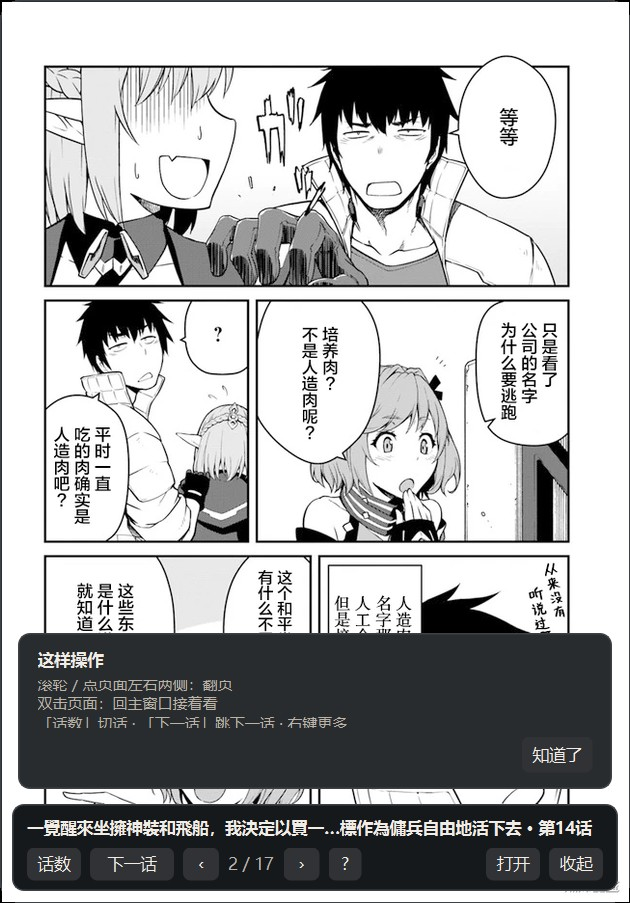
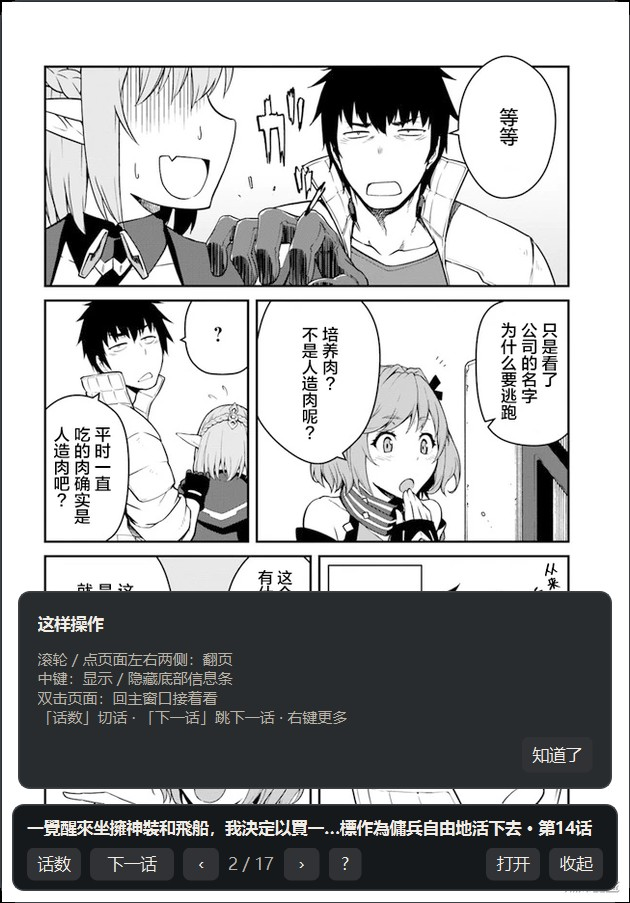
feat: 迷你窗信息条改为鼠标中键切换，版本 2.3.0
- 展开迷你阅读器时信息条默认隐藏，页面完整可见
- 鼠标中键（滚轮按下）切换信息条显示 / 隐藏；画布、空态、提示卡、信息条背景都可触发
- 切换话数、鼠标移入移出不再自动弹出信息条
- 右键菜单新增「显示 / 隐藏信息条（中键）」
- 首次操作提示卡补充「中键」说明，高度随字号自适应
- 测试 74 项（展开默认隐藏 / 中键显示 / 再次中键隐藏）

Changed region(s): [[0.0302, 0.6512, 0.9952, 0.8062]]

diff --git a/app/edge.py b/app/edge.py
@@ -5,7 +5,7 @@
 """
 from __future__ import annotations
 
-from PySide6.QtCore import (QAbstractAnimation, QEasingCurve, QPoint,
+from PySide6.QtCore import (QAbstractAnimation, QEasingCurve, QEvent, QPoint,
                             QPropertyAnimation, QRect, QSize, Qt, QTimer, Signal)
 from PySide6.QtGui import QColor, QCursor, QGuiApplication, QPainter, QPixmap
 from PySide6.QtWidgets import (QFrame, QHBoxLayout, QLabel, QListWidget,
@@ -97,6 +97,10 @@ class _Canvas(QWidget):
         e.accept()
 
     def mousePressEvent(self, e):
+        if e.button() == Qt.MiddleButton:
+            self.panel.toggle_bar()      # 中键：显示 / 隐藏底部信息条
+            e.accept()
+            return
         if e.button() == Qt.LeftButton:
             x = e.position().x()
             third = self.width() / 3
@@ -294,6 +298,7 @@ class EdgePanel(QWidget):
         ct = QLabel("这样操作")
         ct.setObjectName("CoachTitle")
         ctext = QLabel("滚轮 / 点页面左右两侧：翻页\n"
+                       "中键：显示 / 隐藏底部信息条\n"
                        "双击页面：回主窗口接着看\n"
                        "「话数」切话 · 「下一话」跳下一话 · 右键更多")
         ctext.setObjectName("CoachText")
@@ -320,6 +325,10 @@ class EdgePanel(QWidget):
         el.addLayout(self.recent_box)
         el.addStretch(1)
         self.empty.hide()
+
+        # 卡片 / 空态 / 提示卡 / 信息条背景上的中键都能切换信息条
+        for w in (self.card, self.empty, self.coach, self.bar):
+            w.installEventFilter(self)
 
         self.btn_chapters.clicked.connect(self._choose_chapter)
         self.btn_next_ch.clicked.connect(self._go_next_chapter)
@@ -404,7 +413,7 @@ class EdgePanel(QWidget):
         w, h = self.width(), self.height()
         self.card.setGeometry(0, 0, w, h)
         self.bar.setGeometry(8, h - BAR_H - 8, w - 16, BAR_H)
-        coach_h = int(104 * theme.current()["scale"])
+        coach_h = int(132 * theme.current()["scale"])
         self.coach.setGeometry(12, max(12, h - BAR_H - 18 - coach_h), w - 24, coach_h)
         self.empty.setGeometry(0, 0, w, h)
 
@@ -495,7 +504,7 @@ class EdgePanel(QWidget):
         self.empty.setVisible(not self._cid)
         self.canvas.setVisible(bool(self._cid))
         self._animate(self._geo_for(self.peek_w()))
-        self._show_bar()
+        self.bar.hide()
         if not bool(STORE.cfg("edge.coach_seen", False)):
             QTimer.singleShot(280, self._show_coach)
         if self._cid:
@@ -634,7 +643,7 @@ class EdgePanel(QWidget):
         STORE.touch_history(cid, ch.get("name", ""), page, total)
         STORE.save_all()
         self.progress_changed.emit(cid, page, total)
-        self._show_bar()
+        self._fit_title()
 
     def _sync_page_label(self):
         self.lbl_page.setText(
@@ -758,25 +767,34 @@ class EdgePanel(QWidget):
             self._animate(QRect(x, y, w, h))
             self.bar.setGeometry(8, h - BAR_H - 8, w - 16, BAR_H)
 
-    # ================= 底部信息条 =================
-    def _show_bar(self):
+    # ================= 底部信息条（中键切换） =================
+    def toggle_bar(self):
         if not self.expanded:
             return
-        self.bar.show()
-        self._layout_children()
+        if self.bar.isVisible():
+            self.bar.hide()
+        else:
+            self.bar.show()
+            self.bar.raise_()
+            self._layout_children()
+            self._sync_page_label()
 
-    def enterEvent(self, e):
-        self._show_bar()
-        super().enterEvent(e)
+    def show_bar(self):
+        """显式显示（截图 / 首次引导用）。"""
+        if self.expanded and not self.bar.isVisible():
+            self.toggle_bar()
+
+    def eventFilter(self, obj, ev):
+        # 卡片 / 空态 / 提示卡 / 信息条背景上的中键也切换信息条
+        if ev.type() == QEvent.MouseButtonPress and ev.button() == Qt.MiddleButton:
+            self.toggle_bar()
+            return True
+        return super().eventFilter(obj, ev)
 
     def leaveEvent(self, e):
         super().leaveEvent(e)
         if self.expanded and not self.pinned:   # 鼠标离开立即缩回，不留延迟
             self.collapse()
-
-    def mouseMoveEvent(self, e):
-        self._show_bar()
-        super().mouseMoveEvent(e)
 
     def _show_coach(self, manual: bool = False):
         if not self.expanded:
@@ -786,7 +804,7 @@ class EdgePanel(QWidget):
         self._layout_children()
         self._coach_timer.start()
         if manual:
-            self._show_bar()
+            self.show_bar()
 
     def _hide_coach(self):
         self._coach_timer.stop()
@@ -823,6 +841,8 @@ class EdgePanel(QWidget):
         a_prev_ch.setEnabled(bool(prv))
         a_next_ch = m.addAction(f"下一话：{nxt.get('name', '')}" if nxt else "下一话")
         a_next_ch.setEnabled(bool(nxt))
+        a_bar = m.addAction("隐藏信息条（中键）" if self.bar.isVisible()
+                            else "显示信息条（中键）")
         m.addSeparator()
         a_open = m.addAction("在主窗口打开当前页")
         a_fold = m.addAction("收起")
@@ -834,7 +854,9 @@ class EdgePanel(QWidget):
         chosen = m.exec(self.mapToGlobal(pos))
         if chosen is None:
             return
-        if chosen == a_prev_ch:
+        if chosen == a_bar:
+            self.toggle_bar()
+        elif chosen == a_prev_ch:
             if prv:
                 self._switch_chapter(prv["id"], to_end=True)
         elif chosen == a_next_ch:

diff --git a/tools/smoke_test.py b/tools/smoke_test.py
@@ -228,12 +228,22 @@ def main() -> int:
     check("小窗已绑定当前章节", bool(e.current_chapter().get("cid")),
           e.current_chapter().get("name", ""))
     e._poll.stop()                       # 测试期间关闭「离开自动收起」，避免光标不在边上
+    STORE.set_cfg("edge.coach_seen", False)     # 首次提示要在测试里稳定复现（需在展开前）
     e.expand()
     pump(1.0)
     check("碰边滑出阅读窗", e.expanded and e.width() == e.peek_w() and e.card.isVisible(),
           f"w={e.width()}")
-    STORE.set_cfg("edge.coach_seen", False)     # 首次提示要在测试里稳定复现
-    check("小窗信息条常驻（不再自动消失）", e.bar.isVisible())
+    check("展开时信息条默认隐藏", not e.bar.isVisible())
+    from PySide6.QtCore import QEvent as _E, QPointF as _P
+    from PySide6.QtGui import QMouseEvent as _M
+    mid = _M(_E.MouseButtonPress, _P(20, 20), Qt.MiddleButton, Qt.MiddleButton,
+             Qt.NoModifier)
+    QApplication.sendEvent(e.canvas, mid)
+    pump(0.3)
+    check("鼠标中键显示信息条", e.bar.isVisible())
+    QApplication.sendEvent(e.canvas, mid)
+    pump(0.3)
+    check("再次中键隐藏信息条", not e.bar.isVisible())
     check("首次展开显示操作提示", e.coach.isVisible())
     e._hide_coach()
     pump(0.2)

diff --git a/tools/render_preview.py b/tools/render_preview.py
@@ -114,7 +114,7 @@ def main() -> int:
     pump(1.2)
     pump(12, lambda: e._cache.get(e._page) is not None)
     pump(1.0)
-    e._show_bar()
+    e.show_bar()
     pump(0.4)
     e.grab().save(str(OUT / "11_迷你阅读器_滑出.png"))
     e.collapse()

diff --git a/packaging/build.py b/packaging/build.py
@@ -21,7 +21,7 @@ DIST = ROOT / "dist"
 BUILD = ROOT / "build"
 PAYLOAD = ROOT / "packaging" / "out" / "payload"
 APP_NAME = "CBZReader"
-VERSION = "2.2.0"
+VERSION = "2.3.0"
 SETUP_NAME = f"CBZReader_Setup_{VERSION}.exe"
 
 EXCLUDES = [

diff --git a/packaging/selfinstall.py b/packaging/selfinstall.py
@@ -12,7 +12,7 @@ import subprocess
 import sys
 from pathlib import Path
 
-VERSION = "2.2.0"
+VERSION = "2.3.0"
 
 
 def bundle_root() -> Path:

diff --git a/app/__init__.py b/app/__init__.py
@@ -1,2 +1,2 @@
 """CBZ 桌面阅读器。"""
-__version__ = "2.2.0"
+__version__ = "2.3.0"
